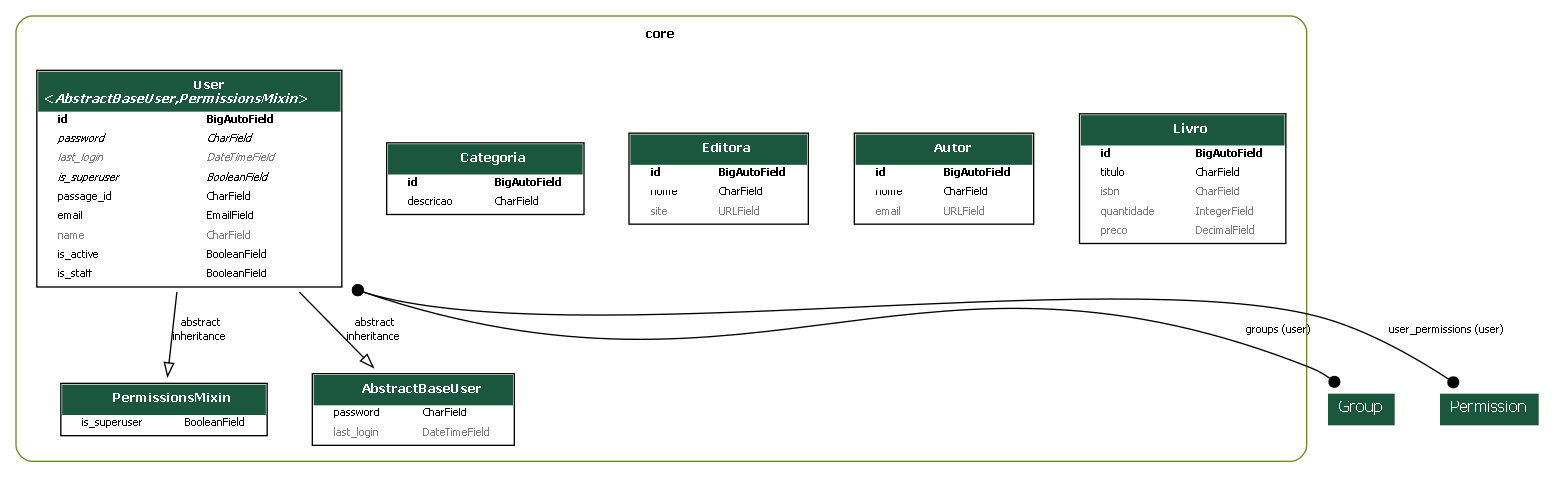
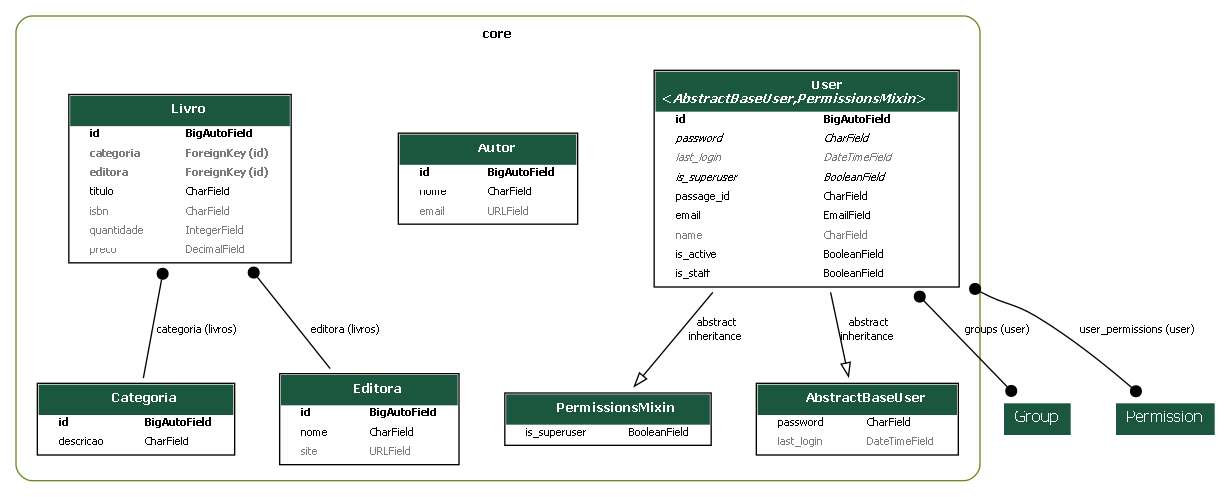
feat: inclusão do relacionamento de Livro com Categoria e Editora

Changed region(s): [[0.0, 0.0294, 1.0, 0.9686], [0.3704, 0.7044, 0.463, 0.7338]]

diff --git a/core/migrations/0009_livro_categoria_livro_editora.py b/core/migrations/0009_livro_categoria_livro_editora.py
@@ -1,0 +1,24 @@
+# Generated by Django 5.1.7 on 2025-05-19 23:56
+
+import django.db.models.deletion
+from django.db import migrations, models
+
+
+class Migration(migrations.Migration):
+
+    dependencies = [
+        ('core', '0008_livro'),
+    ]
+
+    operations = [
+        migrations.AddField(
+            model_name='livro',
+            name='categoria',
+            field=models.ForeignKey(blank=True, null=True, on_delete=django.db.models.deletion.PROTECT, related_name='livros', to='core.categoria'),
+        ),
+        migrations.AddField(
+            model_name='livro',
+            name='editora',
+            field=models.ForeignKey(blank=True, null=True, on_delete=django.db.models.deletion.PROTECT, related_name='livros', to='core.editora'),
+        ),
+    ]

diff --git a/core/models/livro.py b/core/models/livro.py
@@ -1,6 +1,11 @@
 from django.db import models
+from .categoria import Categoria
+from .editora import Editora
+
 
 class Livro(models.Model):
+    categoria = models.ForeignKey (Categoria, on_delete=models.PROTECT, related_name="livros", null=True, blank=True)
+    editora = models.ForeignKey(Editora, on_delete=models.PROTECT, related_name="livros", null=True, blank=True)
     titulo = models.CharField(max_length=255)
     isbn = models.CharField(max_length=32, null=True, blank=True)
     quantidade = models.IntegerField(default=0,  null=True, blank=True)
@@ -8,3 +13,5 @@ class Livro(models.Model):
 
     def __str__(self):
         return f"({self.id}) {self.titulo} ({self.quantidade})"
+    
+    
